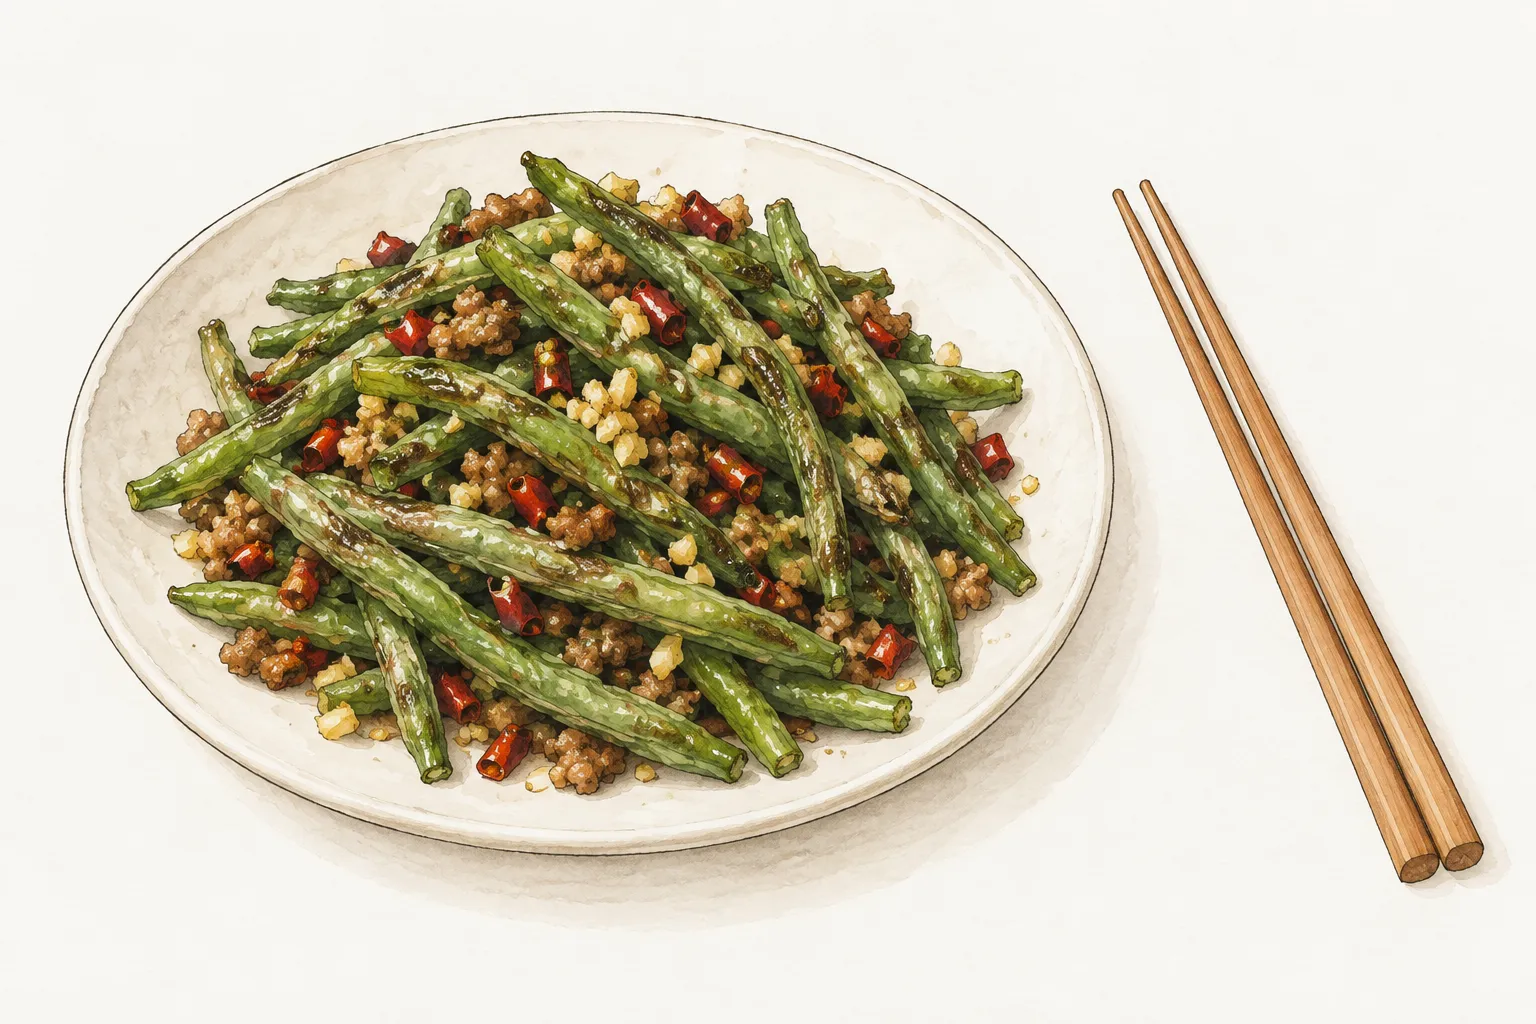
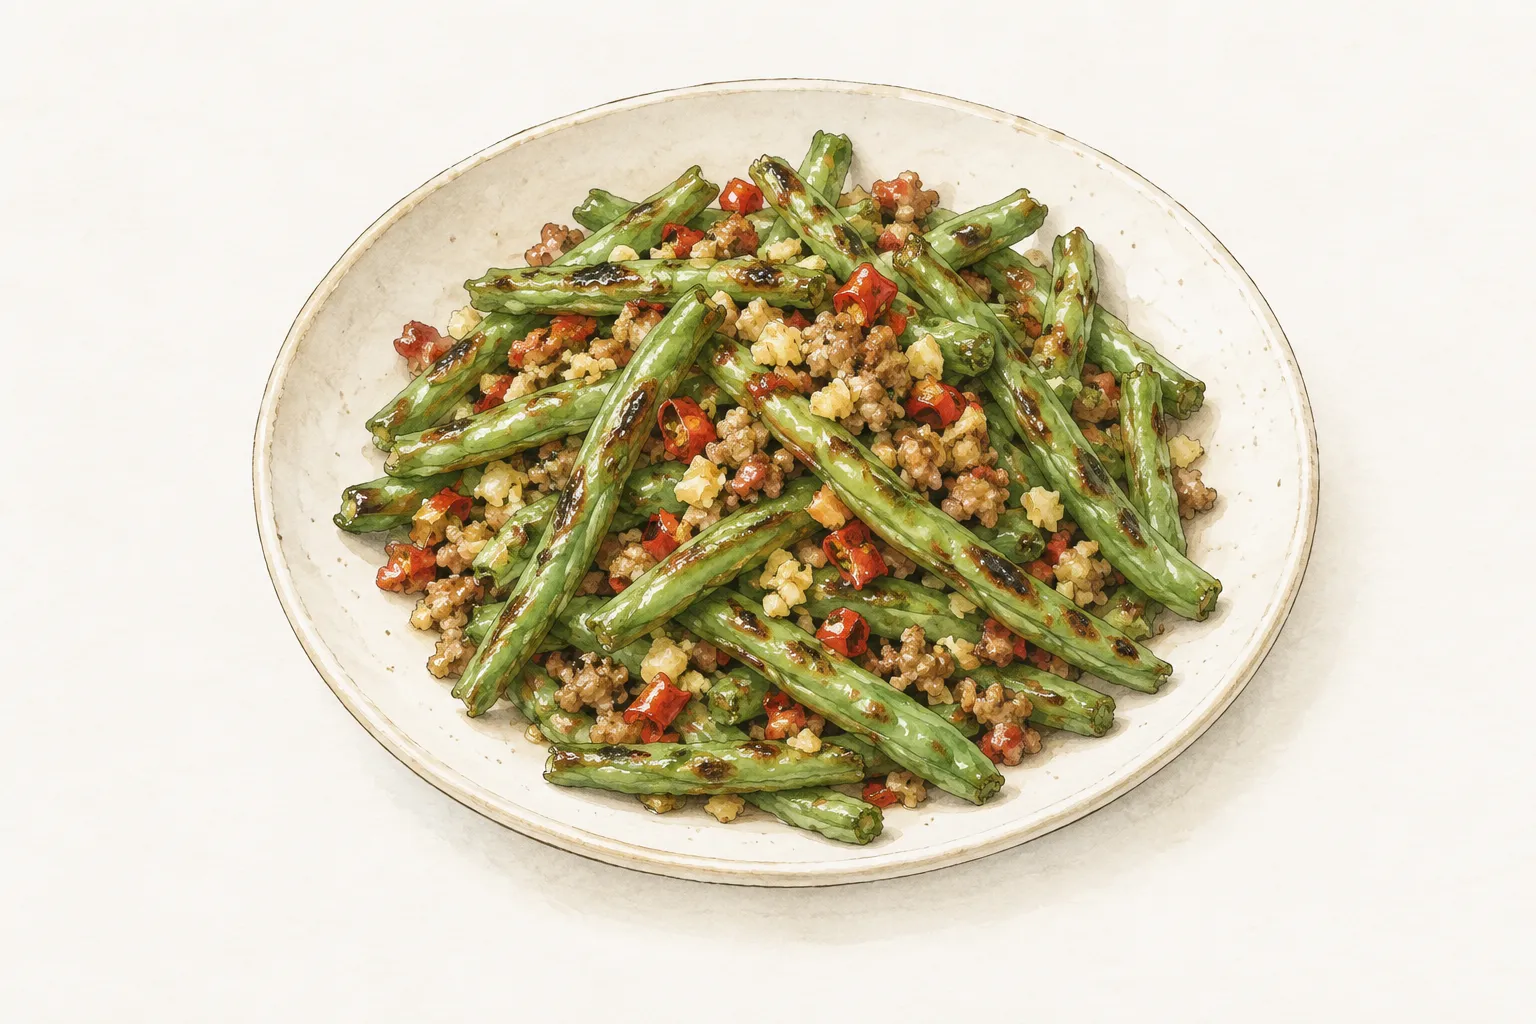
feat: redraw hero images without utensils and add prep-step illustrations
🤖 Generated with Claude Code

diff --git a/.scratch/recipe-mvp/issues/06-homepage-direction.md b/.scratch/recipe-mvp/issues/06-homepage-direction.md
@@ -22,7 +22,7 @@ Blocked by: 01
 
 ### 圖片
 
-- 全站料理圖片一律使用手繪水彩插畫，不用照片，規格見下節。每張 AI 製作的料理圖片旁標示「AI 繪製插畫」。
+- 全站料理圖片一律使用手繪水彩插畫，不用照片，規格見下節。圖旁不加圖說（站主 2026-10-07 決定移除原本的「AI 繪製插畫」標示）；AI 製作的揭露由頁底聲明與關於頁承擔。
 
 ## 圖片風格規格
 
@@ -42,9 +42,9 @@ Blocked by: 01
 ### 構圖
 
 - 一律橫幅 3:2，原圖 1536×1024。
-- 成品圖：成品盛在素色陶瓷盤或碗中，約 45 度俯視，主體略偏一側、約占畫面六成；可加一雙筷子或湯匙，不加其他道具。首頁與卡片會裁切，主體不可貼邊。
+- 成品圖：成品盛在素色陶瓷盤或碗中，約 45 度俯視，主體略偏一側、約占畫面六成；不畫筷子、湯匙、叉子等餐具，也不加其他道具。首頁與卡片會裁切，主體不可貼邊。
 - 材料合照：正上方俯視平鋪，各材料彼此分開不重疊；畫出的品項與數量須和材料清單一致，調味料以小碟、小瓶呈現。
-- 步驟圖：只畫該步驟完成時的關鍵狀態；同一份菜譜的鍋具、砧板、刀和盤子在各圖保持一致。
+- 步驟圖：只畫該步驟完成時的關鍵狀態；備料步驟（洗、切、泡、醃）每一步都要有圖；同一份菜譜的鍋具、砧板、刀和盤子在各圖保持一致。
 
 ### 禁止事項
 
@@ -54,18 +54,12 @@ Blocked by: 01
 
 - 同一份菜譜的全部圖片須像同一組：線條粗細、上色濃淡、背景色與視角一致。不一致時整組重製，不混用不同批次。
 - 圖與文字須一致（材料品項與數量、步驟狀態、成品樣貌）；不一致時依[本地 AI 製作流程](03-local-ai-review-workflow.md)重製或修正後才送審。
-- 每張圖旁標示「AI 繪製插畫」，並依[內容契約](02-recipe-content-contract.md)提供描述性替代文字。
+- 依[內容契約](02-recipe-content-contract.md)提供描述性替代文字。
 - 原圖約 2–2.5 MB 的 PNG 不進主分支；提交前轉成 WebP、1536×1024、不超過 300 KB，由[發布門檻](07-publishing-gates.md)檢查。
 
 ### 生成提示詞
 
-本地 AI 製圖時，每張圖的提示詞包含下列固定風格段與禁止段，再加上該圖的構圖描述；送入一張同菜譜已完成的圖作風格參考，以維持整組一致。
-
-```text
-STYLE: Warm hand-drawn illustration: loose fine ink linework with soft watercolor washes, slightly uneven lines, muted natural colors (tomato red, egg yellow, scallion green, warm grays), paper texture, calm and minimal like a Japanese cookbook illustration. Not photorealistic. Plain background close to #F7F6F3 with generous empty space. Landscape 3:2, 1536x1024.
-
-RULES: No text, letters, numbers, labels, logos or watermarks. No human faces. No faces or expressions on food. Hands are allowed but optional.
-```
+本地 AI 製圖時，每張圖的提示詞包含固定風格段與禁止段，再加上該圖的構圖描述；送入一張同菜譜已完成的圖作風格參考，以維持整組一致。固定段落與製圖腳本放在 `recipe-making` skill（`.claude/skills/recipe-making/style.txt`）。
 
 首頁原型與菜譜內頁原型已改用三道示意菜的手繪成品圖驗證：插畫放在首頁大圖、清單縮圖與內頁主圖都清楚可辨。生成圖的底色帶紙紋、略深於網頁底色 `#F7F6F3`，無法與版面無縫融合；版面應把插畫當成一張有自己底色的紙圖排版，不依賴去背或混色。
 
